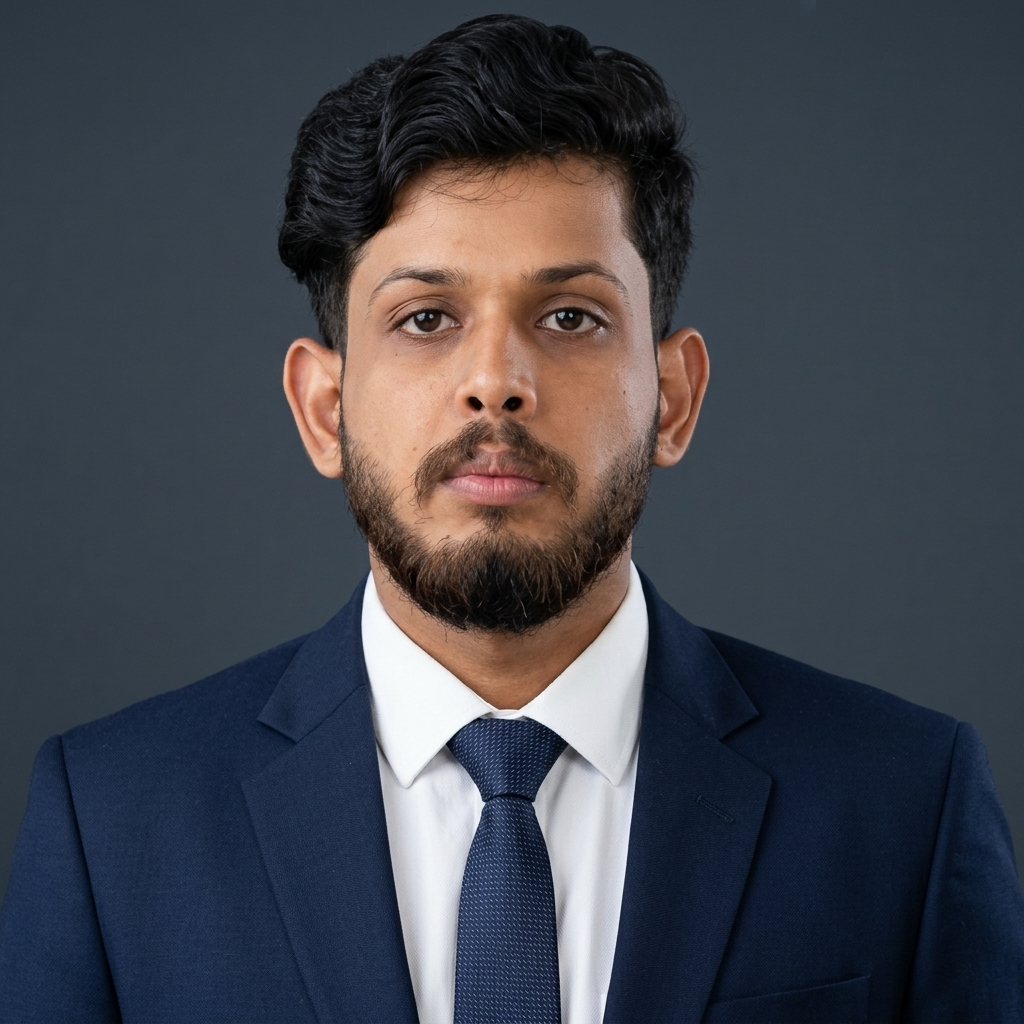
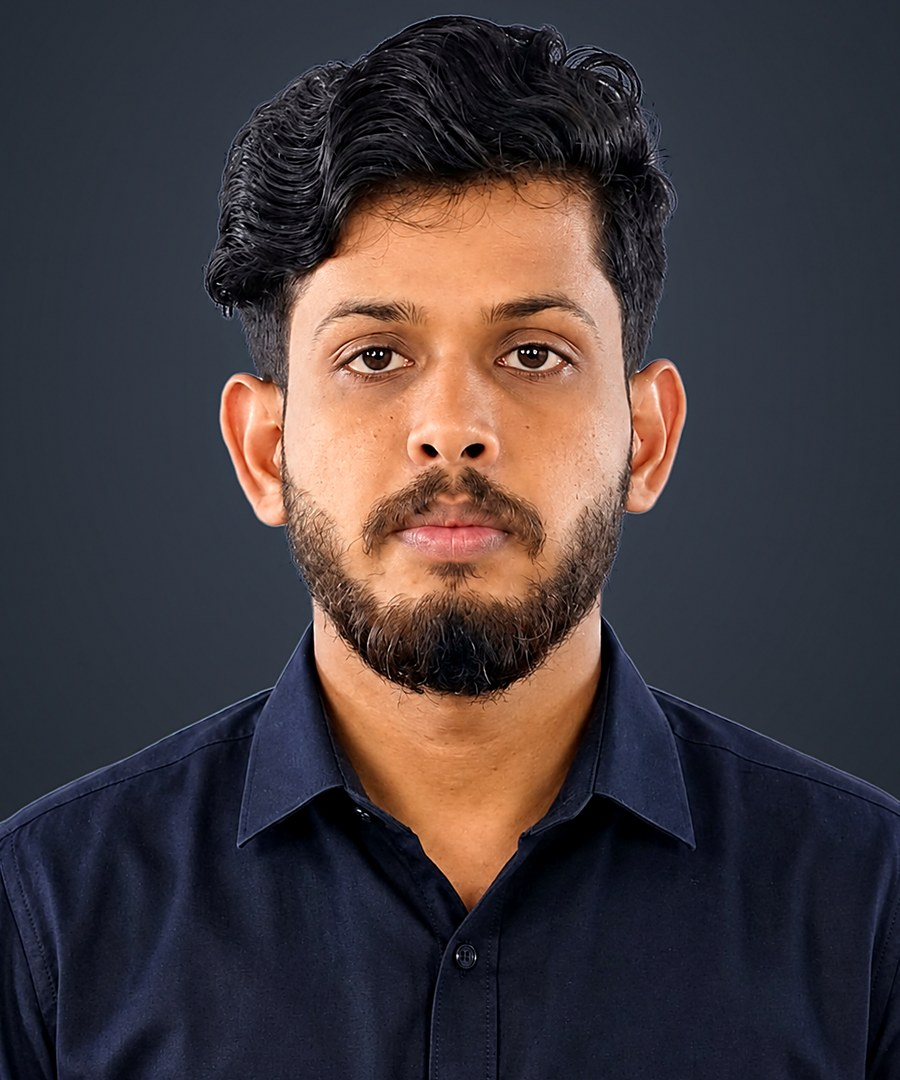
Update profile photo with dark background, tighter crop and optimized size

diff --git a/index.html b/index.html
@@ -132,7 +132,7 @@
           <!-- Left Column: Portrait Card -->
           <div class="about-photo-card reveal reveal-left">
             <div class="about-photo-frame">
-              <img src="assets/profile_photo.jpg" alt="Ankur Kumar Singh" class="about-photo-img" />
+              <img src="assets/profile_photo.jpg" alt="Ankur Kumar Singh" class="about-photo-img" width="900" height="1080" loading="lazy" decoding="async" />
             </div>
           </div>
 

diff --git a/style.css b/style.css
@@ -541,6 +541,7 @@ a {
   width: 100%;
   height: 100%;
   object-fit: cover;
+  object-position: center 20%;
   display: block;
   transition: transform 0.6s cubic-bezier(0.16, 1, 0.3, 1);
 }
